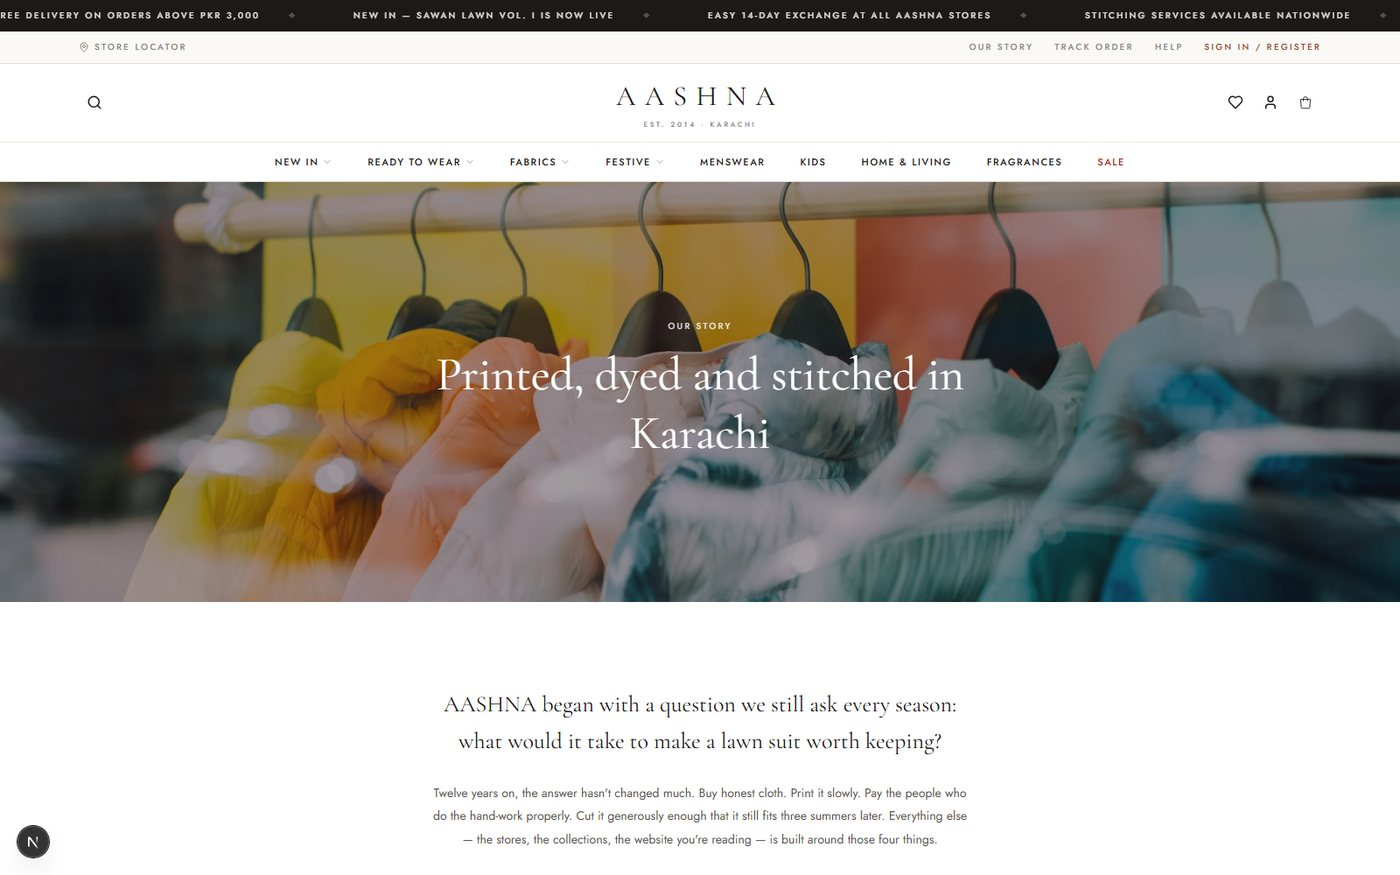
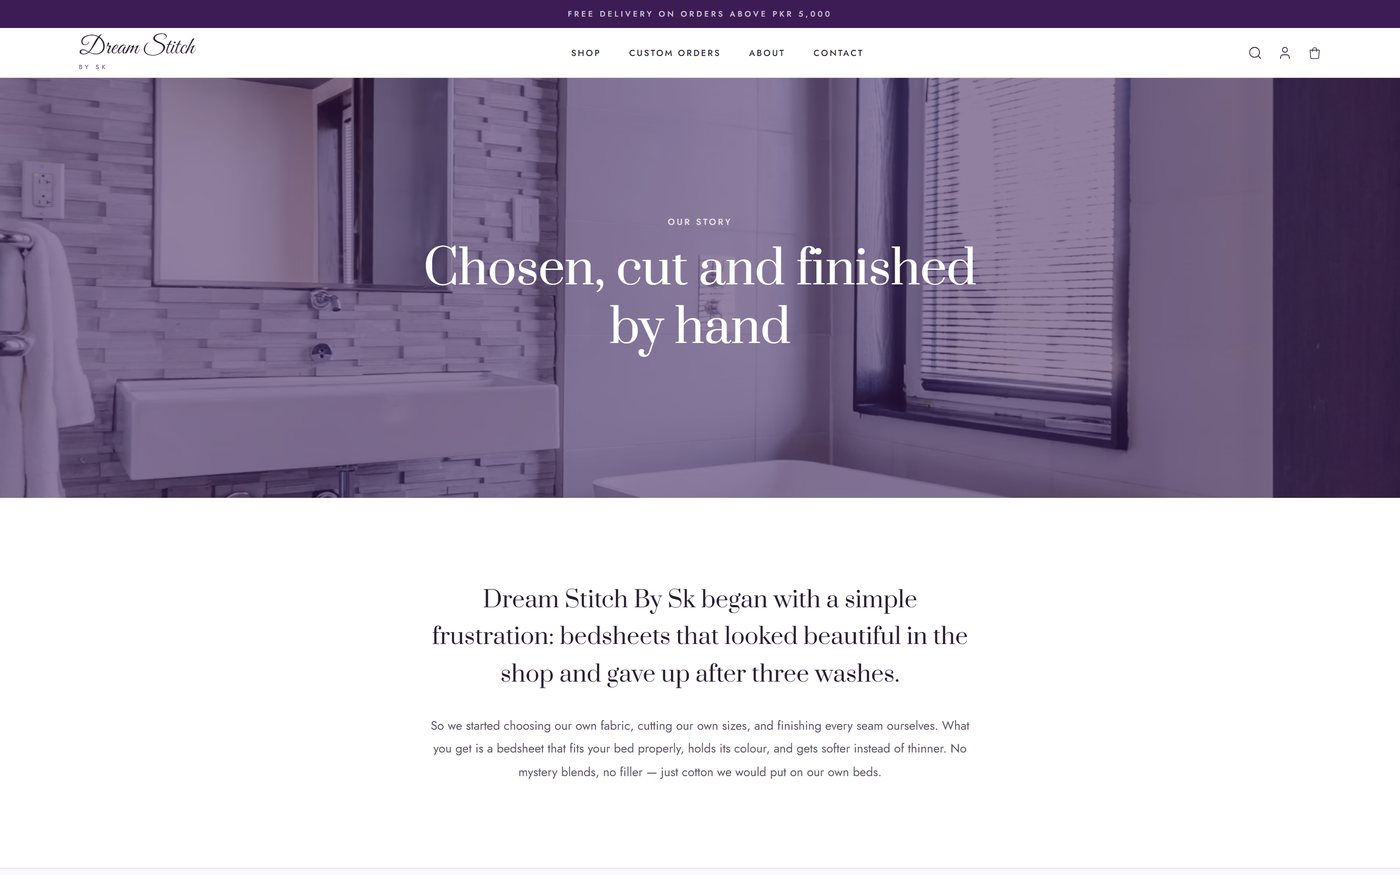
feat: implement product media upload system with TUS support and RLS-backed Supabase storage integration

diff --git a/README.md b/README.md
@@ -47,6 +47,7 @@ street cannot match.
 | **Product** | `/shop/[id]` — thumbnail gallery, colourway and bed-size selection, size-guide dialog, service promises, detail accordions |
 | **Custom** | `/custom` — how it works, measuring guide, standard-size table, measurement request form |
 | **Bag** | Slide-over with a free-delivery progress bar and an inline delivery-details step |
+| **Wishlist** | `/wishlist` — saved sets, kept in the browser, no account needed |
 | **Editorial** | `/about` and `/contact` — story, milestones, stockists, FAQs |
 | **Account** | `/signin` and `/signup` — split editorial layout over Supabase Auth |
 
@@ -108,6 +109,8 @@ UPDATE public.profiles SET role = 'admin' WHERE email = 'you@example.com';
 ```
 
 No signup path grants admin, and there is no service-role key in the app.
+[`product_media_schema.sql`](product_media_schema.sql) goes last — see
+[Product media](#product-media) below.
 
 | | |
 | :-- | :-- |
@@ -124,8 +127,8 @@ subject to RLS) and gates every catalogue write and order read behind it.
 `requireAdmin()` in [`lib/auth/admin.ts`](lib/auth/admin.ts) only buys a clean
 redirect — a forged session that slipped past it would still be refused by
 Postgres. Mutations run as the signed-in user through server actions in
-[`app/admin/actions.ts`](app/admin/actions.ts), so there is one security model
-to audit.
+[`app/(site)/admin/actions.ts`](app/%28site%29/admin/actions.ts), so there is
+one security model to audit.
 
 **What settings actually drive.** Saving is not cosmetic: the delivery
 threshold and fee feed the cart's progress bar, the product-page promise and
@@ -140,6 +143,40 @@ emptied. Each tab covers one surface: section switches, headings, body copy,
 button labels and links, image URLs, and repeatable lists (hero slides,
 promises, steps, FAQs, footer and navigation links). *Restore defaults* puts one
 tab back to what the app ships with.
+
+---
+
+## Product media
+
+[`product_media_schema.sql`](product_media_schema.sql) adds a public
+`product-media` bucket and a `product_media` table that records what is in it.
+Run it in the **Supabase SQL editor** after `admin_schema.sql`.
+
+**The uploaded file is the master.** Nothing on the way in compresses,
+re-encodes or resizes — what lands in the bucket is the photographer's
+original, byte for byte. Display sizes are asked for at read time from
+Supabase's render endpoint, so producing a thumbnail costs the original
+nothing. `productMediaSrc()` in
+[`lib/supabase/storage.ts`](lib/supabase/storage.ts) makes the choice: a sized
+rendering for an image, the master for a video.
+
+| | |
+| :-- | :-- |
+| **Bucket** | 100 MB ceiling and a MIME allow-list enforced by storage-api itself — jpeg, png, webp, avif; mp4, webm, mov |
+| **Keys** | `products/{product-id}/{timestamp}-{name}`, so an object is immutable — a replaced shot is a new key, which makes a year-long cache header safe |
+| **Transport** | one XHR request up to 6 MB; TUS in 6 MB chunks above it and for all video, fingerprinted in `localStorage` so a dropped connection resumes instead of restarting a 90 MB clip. Four files in flight at once |
+| **Atomicity** | a `product_media` row is written only once its object commits, and a failed insert deletes the object rather than orphan it in the bucket |
+| **Primary shot** | a partial unique index permits one per product, and a trigger demotes the incumbent — so "set as primary" stays a single `UPDATE` |
+| **Writes** | RLS on both `storage.objects` and `product_media`, through `can_manage_product_media()`, which already accepts a future `seller` role. The upload path is pinned to `products/<id>/` by the policy itself |
+
+Image transformations are a paid-plan feature — on the free tier the render URL
+returns 400 — which is why `productMediaSrc()` takes a `transform` flag that can
+be switched off project-wide from one place.
+
+> **Where it is mounted.** `ProductMediaUploader` sits below the form on
+> `/admin/products/[id]` — an edit page, because a product id has to exist
+> before media can hang off it. The storefront gallery still reads the `images`
+> text array the seed fills in; pointing it at `product_media` is the next step.
 
 ---
 
@@ -175,39 +212,53 @@ Utility classes worth knowing: `.link-rule` (underline wipes in on hover),
 
 ## Project structure
 
+Routes are split by route group: `(site)` carries the header and footer,
+`(auth)` gets the split editorial shell instead.
+
 ```
 app/
-  page.tsx              home — hero, fabrics, New In, bestsellers, promises
-  admin/                the panel: dashboard, products, categories,
+  layout.tsx            root shell — fonts, metadata, Speed Insights
+  (site)/
+    page.tsx            home — hero, fabrics, New In, bestsellers, promises
+    shop/page.tsx       collection listing with filters and sort
+    shop/[id]/page.tsx  product detail
+    custom/page.tsx     made-to-measure service and measurement request
+    wishlist/           saved sets, held in the browser
+    about/  contact/    editorial pages
+    admin/              the panel: dashboard, products, categories,
                         orders, settings, and the server actions behind them
-  shop/page.tsx         collection listing with filters and sort
-  shop/[id]/page.tsx    product detail
-  custom/page.tsx       made-to-measure service and measurement request
-  about/  contact/      editorial pages
-  signin/  signup/      auth, over Supabase
+  (auth)/               signin, signup — over Supabase Auth
+  auth/                 OAuth callback and email-confirmation routes
   api/checkout/         order placement, price-verified server-side
 components/
   layout/               Header (one-row bar, mega panel, search overlay),
-                        Section (vertical rhythm), SectionHeading
-  home/                 HeroCarousel, HomeClosing
-  admin/                ActionForm, ProductForm, CategoryEditor,
+                        Section (vertical rhythm), SectionHeading, SiteFooter
+  home/                 HeroCarousel, FabricCarousel, HomeClosing
+  admin/                ActionForm, ProductForm, ProductMediaUploader,
+                        CategoryEditor, ContentEditor, Repeater,
                         OrderStatusControl, StatusPill, AdminNav
   products/             ProductCard, QuickAdd, ProductGallery, ProductOptions,
-                        CategoryFilter, SortMenu, SizeGuideDialog, …
+                        FilterPanel, SortMenu, SizeGuideDialog, WishlistGrid, …
   cart/CartDrawer.tsx   bag + delivery details + confirmation
   auth/AuthShell.tsx    split editorial layout shared by sign in / register
+  motion/               ScrollReveal, RouteProgress, BackToTop, Skeleton
 lib/
   constants.ts          brand, navigation tree, bed sizes, colour swatches
   auth/admin.ts         admin gate for the panel
-  api/settings.ts       store settings, falling back to the constants
+  api/                  product, settings and page-content queries
+  content/              default page copy, the field schema behind the
+                        settings tabs, and the merge over the defaults
   format.ts             currency formatting
   pricing.ts            delivery thresholds and order totals
   imagery.ts            verified editorial photography ids
   product-attributes.ts fallbacks for optional bedding columns
-  api/products.ts       Supabase queries
-  supabase/             browser / server / middleware clients
+  supabase/             browser / server / middleware clients, plus the
+                        media bucket contract and its upload transport
 scripts/                catalogue and README asset generators
 ```
+
+Legacy paths redirect rather than 404: `/products` → `/shop`, `/login` →
+`/signin`, `/dashboard` → `/`.
 
 ---
 
@@ -240,18 +291,24 @@ trusted from the client.
 
 ## Imagery
 
-Editorial photography ids live in [`lib/imagery.ts`](lib/imagery.ts). Every id
-has been checked to return `200` from `images.unsplash.com` — a dead id renders
-as an empty tile, so verify before adding one.
+Two sources, and they do not overlap. **Editorial** photography — heroes,
+section bands, the about page — is Unsplash, by id, in
+[`lib/imagery.ts`](lib/imagery.ts); every id has been checked to return `200`
+from `images.unsplash.com`, since a dead id renders as an empty tile.
+**Product** photography is uploaded, and lives in the bucket described under
+[Product media](#product-media).
 
-README images are generated:
+README images are generated from full-page screenshots:
 
 ```bash
 python scripts/gen_readme_assets.py banner=<screenshot.png> about=<screenshot.png>
 ```
 
-The palette strip is drawn from the token list in that script, so it cannot
-drift from the CSS.
+Capture them at 1600 wide with **reduced motion** on — the announcement strip
+crossfades and the hero autoplays, so without it a frame lands mid-transition
+with two headlines on top of each other. The palette strip needs no input: it
+is drawn from the token list inside that script, so it cannot drift from the
+CSS.
 
 ---
 
@@ -262,6 +319,7 @@ drift from the CSS.
 | `npm run dev` | Development server |
 | `npm run build` | Production build |
 | `npm run start` | Serve the production build |
+| `npm run lint` | ESLint, via `eslint-config-next` |
 | `python scripts/gen_bedding_seed.py` | Regenerate `bedding_seed.sql` |
 | `python scripts/gen_readme_assets.py` | Regenerate the README images |
 
